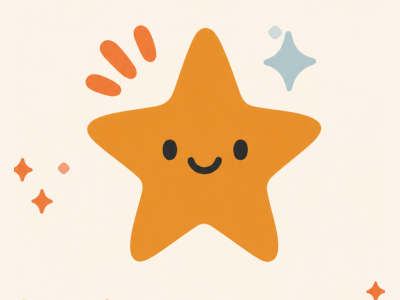
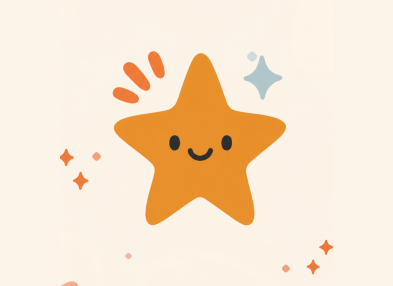
Add wink animation to Winking Star thumbnail

diff --git a/index.html b/index.html
@@ -1938,6 +1938,65 @@
     .featured-bento .pcard { height: 100%; }
     .featured-bento .pcard-article { display: block; height: 100%; }
 
+    .featured-bento .pcard-img--winkingstar {
+      background: #fcf4e8;
+    }
+    .winkingstar-wink-eye {
+      position: absolute;
+      left: 59.6%;
+      top: 48.8%;
+      z-index: 2;
+      width: 5.5%;
+      height: 8.5%;
+      transform: translate(-50%, -50%);
+      pointer-events: none;
+    }
+    .winkingstar-wink-eye::before,
+    .winkingstar-wink-eye::after {
+      content: "";
+      position: absolute;
+      pointer-events: none;
+    }
+    .winkingstar-wink-eye::before {
+      inset: -22% -34%;
+      border-radius: 999px;
+      background: radial-gradient(circle at 46% 38%, #f7a422 0%, #f29a18 62%, #ea8d13 100%);
+      opacity: 0;
+      animation: winkingstar-eye-cover 5.8s ease-in-out infinite;
+    }
+    .winkingstar-wink-eye::after {
+      left: 5%;
+      right: 5%;
+      top: 50%;
+      height: 17%;
+      border-radius: 999px;
+      background: #242322;
+      opacity: 0;
+      transform: translateY(-50%) scaleX(0.2);
+      transform-origin: center;
+      animation: winkingstar-eye-line 5.8s ease-in-out infinite;
+    }
+    html[data-theme="dark"] .winkingstar-wink-eye {
+      filter: brightness(0.88);
+    }
+    html[data-theme="dark"] .pcard:hover .winkingstar-wink-eye {
+      filter: brightness(1);
+    }
+    @keyframes winkingstar-eye-cover {
+      0%, 54%, 72%, 100% { opacity: 0; }
+      58%, 67% { opacity: 1; }
+    }
+    @keyframes winkingstar-eye-line {
+      0%, 54%, 72%, 100% {
+        opacity: 0;
+        transform: translateY(-50%) scaleX(0.2);
+      }
+      59%, 67% {
+        opacity: 1;
+        transform: translateY(-50%) scaleX(1);
+      }
+    }
+
     /* Shine sweep on hover (diagonal gloss) */
     .featured-bento .pcard-article {
       position: relative;
@@ -1990,6 +2049,8 @@
 
     @media (prefers-reduced-motion: reduce) {
       .featured-bento .pcard-article::after { display: none; }
+      .winkingstar-wink-eye::before,
+      .winkingstar-wink-eye::after { animation: none; }
     }
   </style>
 
@@ -2629,8 +2690,9 @@
         <!-- 1×1: Winking Star (bottom-left of right column, next to Barclays' column) -->
         <div class="bc-4 rv" data-d="4">
           <article class="pcard-article"><a href="project-winkingstar.html" class="pcard">
-            <div class="pcard-img" style="background:#F8F1E4;">
-              <img src="assets/winkingstar-hero-banner.png" alt="Winking Star: native iOS habit tracker for families" loading="lazy" decoding="async" width="400" height="300" style="object-fit:cover;object-position:center;" />
+            <div class="pcard-img pcard-img--winkingstar">
+              <img src="assets/winkingstar-hero-banner.png" alt="Winking Star: native iOS habit tracker for families" loading="lazy" decoding="async" width="393" height="286" style="object-fit:cover;object-position:center;" />
+              <span class="winkingstar-wink-eye" aria-hidden="true"></span>
               <div class="pcard-caption" aria-hidden="true"><span class="pcard-caption-title">Winking Star</span></div>
             </div>
             <div class="pcard-body">